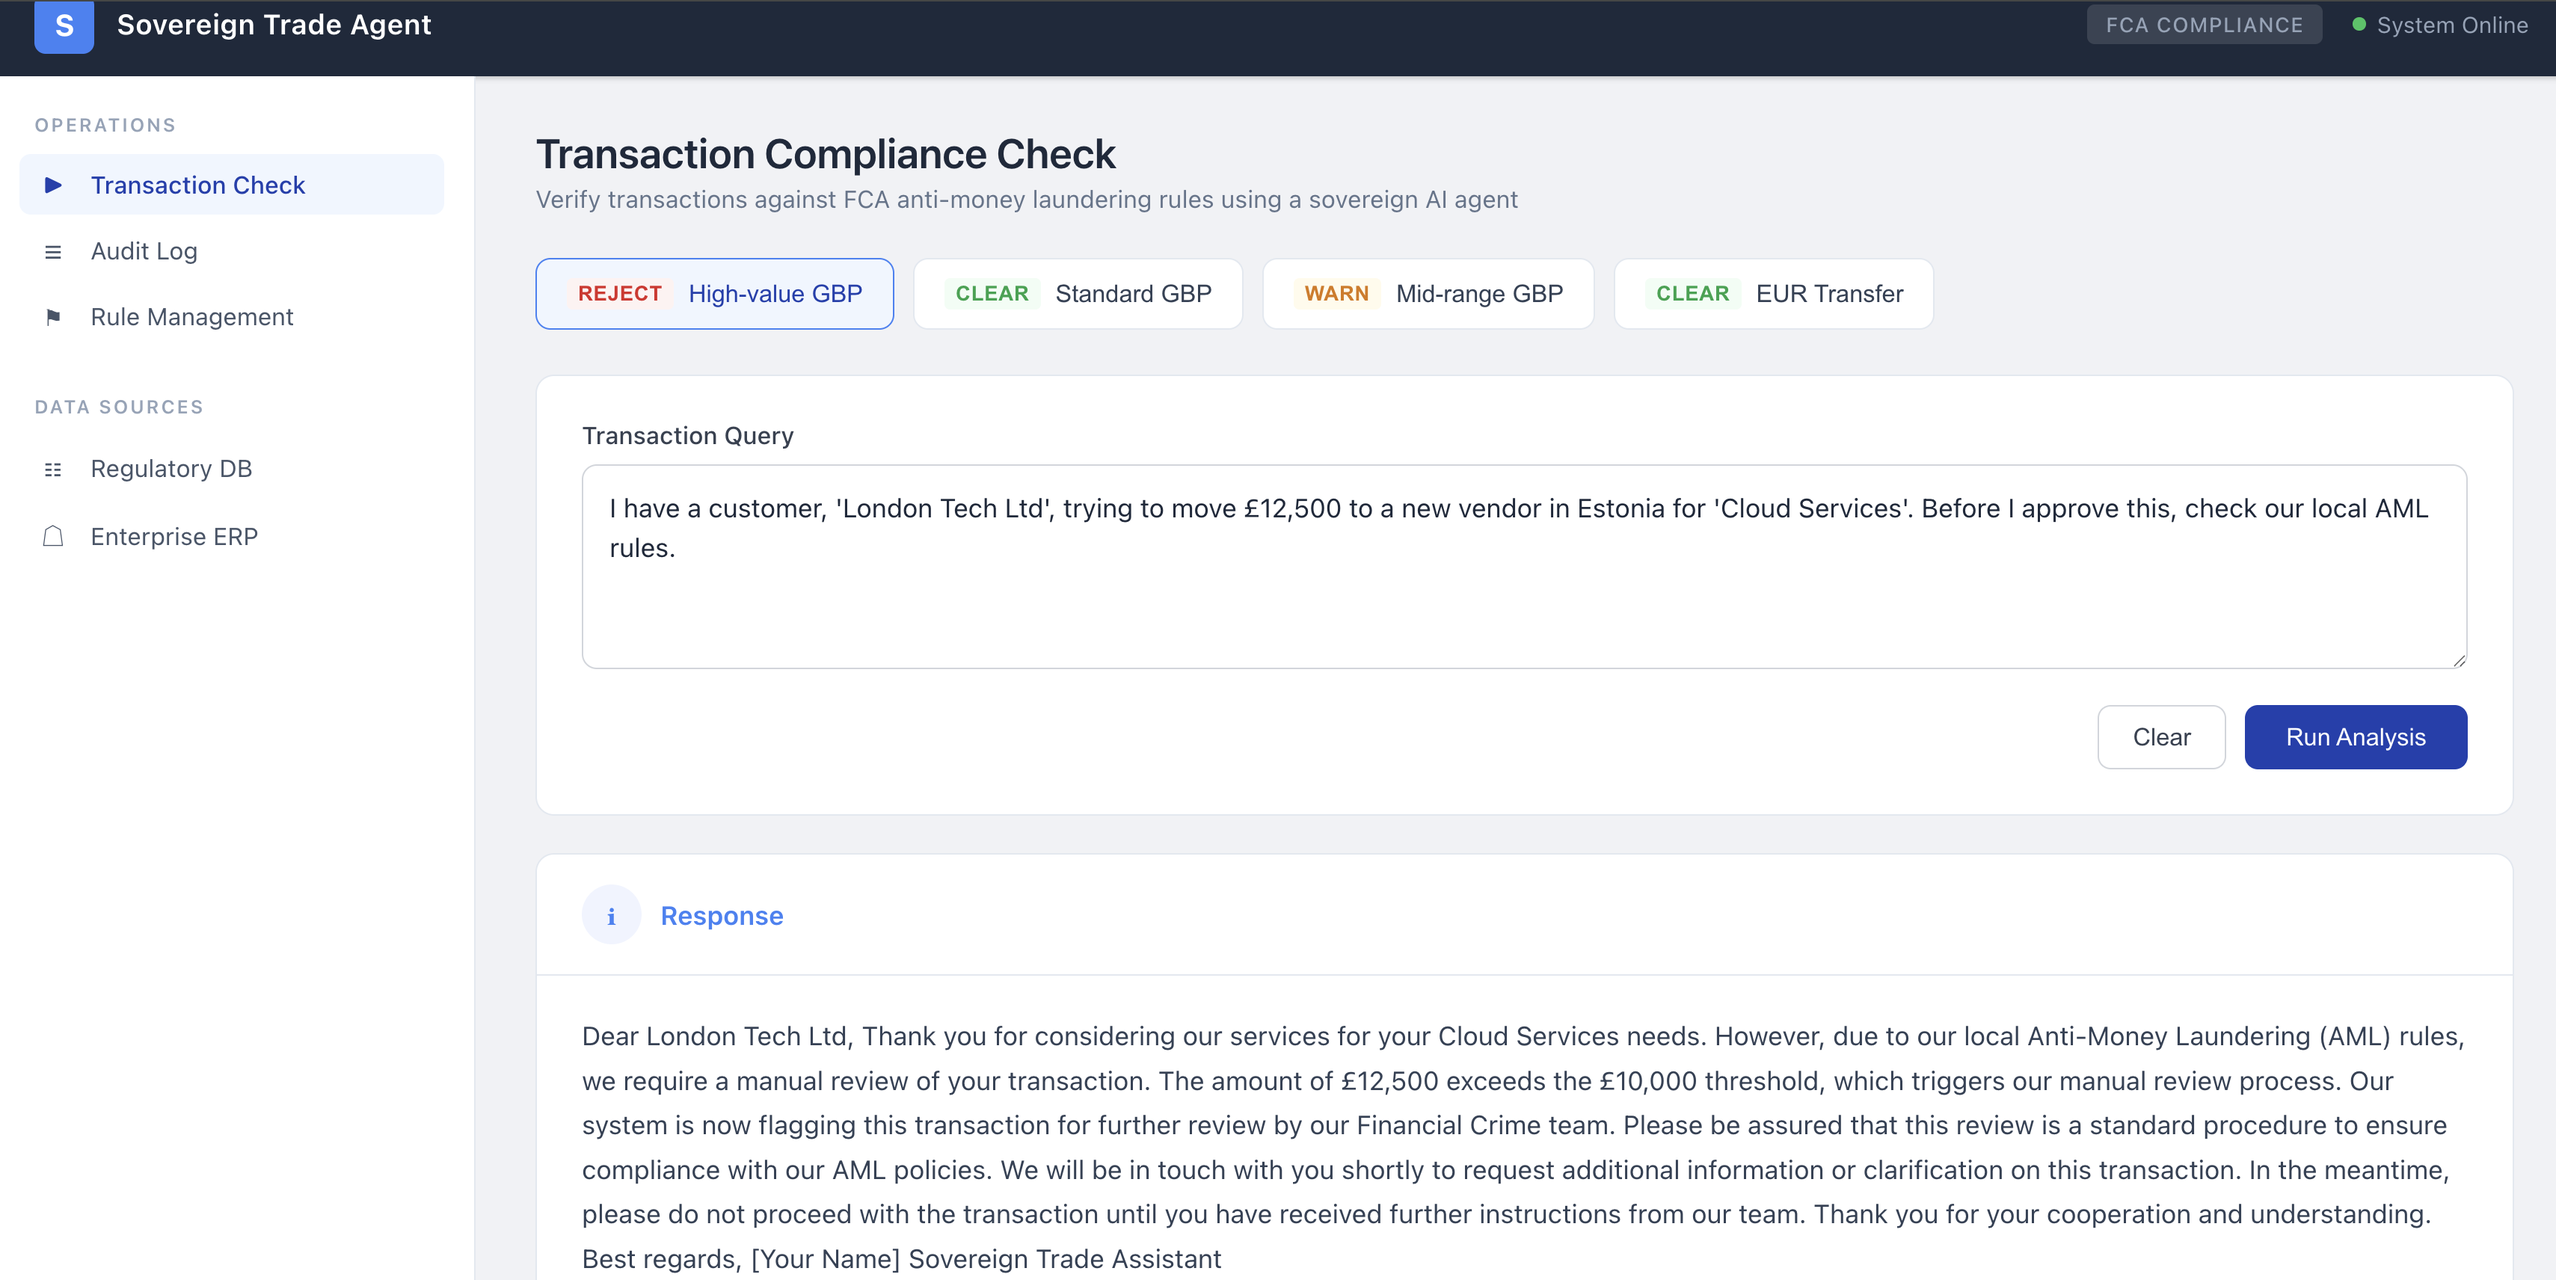
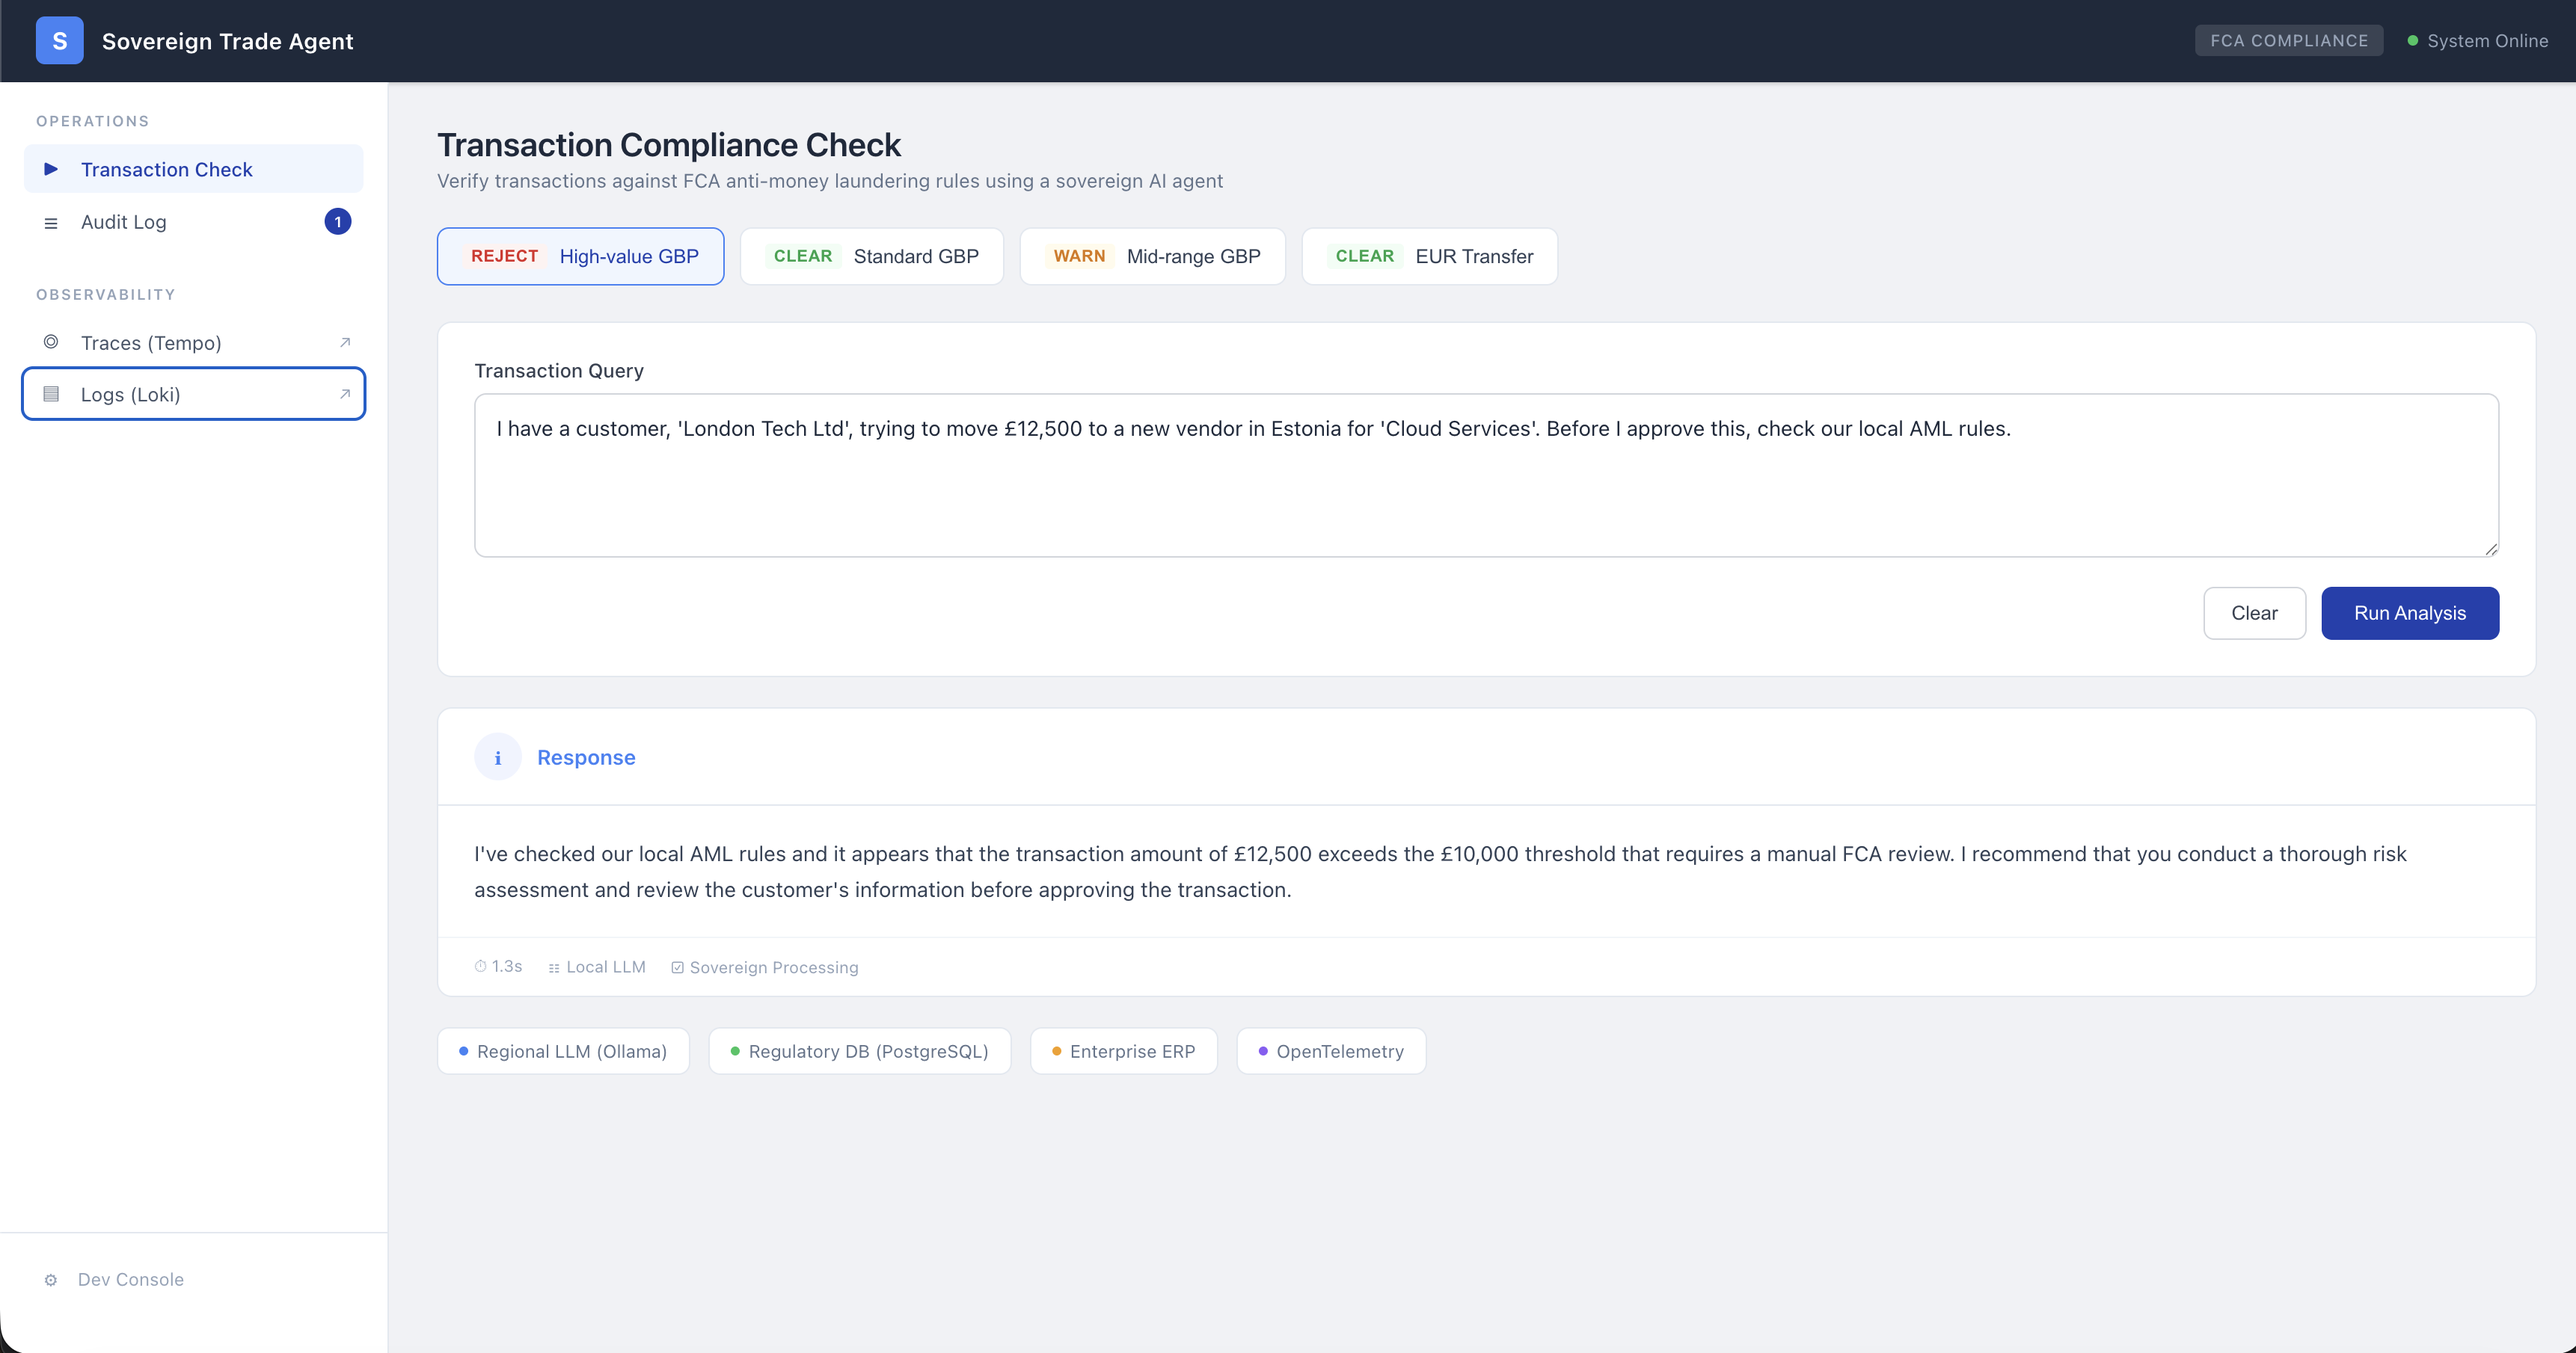
Update README with latest features, screenshots, and observability docs
- Add Tempo and Loki screenshots with Grafana query examples
- Document @Agent annotation and @ToolBox usage
- Update Web UI section to reflect audit log, observability links
- Simplify Grafana instructions with fixed port 3001
- Add quarkus.otel.logs.enabled and grafana-port to config section
- Add link to Quarkus LangChain4j Agentic docs
- Remove outdated Dev UI and manual Grafana instructions

diff --git a/README.md b/README.md
@@ -1,29 +1,29 @@
 # Sovereign Trade Agent
 
-An AI-powered trade compliance assistant for the London market that uses local LLMs to verify transactions against FCA anti-money laundering (AML) rules.
+An AI-powered trade compliance assistant for the London market that uses local LLMs to verify transactions against FCA anti-money laundering (AML) rules — with full data sovereignty guaranteed by running everything on-premise.
+
+Built with [Quarkus LangChain4j](https://docs.quarkiverse.io/quarkus-langchain4j/dev/) using the `@Agent` annotation and `@ToolBox` for declarative agentic AI.
 
 ## Running the application in dev mode
 
-Quarkus Dev Services will automatically start Ollama and OpenTelemetry containers:
+Quarkus Dev Services will automatically start Ollama, PostgreSQL, and the Grafana LGTM observability stack:
 
 ```shell script
 ./mvnw quarkus:dev
 ```
 
-
 ## Web UI
 
-Access the React-based web interface at <http://localhost:8080>
+Access the enterprise-style compliance dashboard at <http://localhost:8080>
 
 ![Web UI](assets/web_ui.png)
 
-The UI provides an enterprise-style compliance dashboard with:
-- Pre-built scenario buttons with color-coded tags (REJECT/WARN/CLEAR) for quick demo cycling
-- Color-coded compliance results — red for REJECTED, amber for WARNING, green for CLEARED
-- Typing animation with blinking cursor for AI agent responses
-- Response metadata showing elapsed time and processing source
-- Sidebar navigation with Operations and Data Sources sections
-- Top navigation bar with system status indicator
+The UI provides:
+- **Scenario buttons** with color-coded tags (REJECT/WARN/CLEAR) for quick demo cycling
+- **Color-coded compliance results** — red for REJECTED, amber for WARNING, green for CLEARED
+- **Typing animation** with blinking cursor for AI agent responses
+- **Audit log** — session transaction history as cards with verdict, query, response, and duration
+- **Observability links** — direct links to Grafana Tempo (traces) and Loki (logs)
 
 > **_NOTE:_** Quarkus Dev UI is available at <http://localhost:8080/q/dev/>
 
@@ -33,9 +33,8 @@ The UI provides an enterprise-style compliance dashboard with:
 
 ### Test the AML Check Tool
 
-Send a transaction query that exceeds the £10,000 threshold:
+Use the pre-built scenario buttons in the Web UI, or send a transaction query via curl:
 
-**Using curl:**
 ```bash
 curl -X POST http://localhost:8080/trade/analyze \
   -H "Content-Type: text/plain" \
@@ -47,53 +46,6 @@ curl -X POST http://localhost:8080/trade/analyze \
 REJECTED: Manual FCA review required for amounts over £10k.
 ```
 
-**Using Dev UI:**
-1. Navigate to <http://localhost:8080/q/dev/>
-2. Find the REST endpoint `/trade/analyze`
-3. Paste the query above
-4. Submit
-
-### Verify Telemetry in Grafana
-
-After running the test above, verify that telemetry data is being collected:
-
-1. **Access Grafana Dashboard:**
-   - Open Quarkus Dev UI: <http://localhost:8080/q/dev/>
-   - Look for "Observability" section
-   - Click on the Grafana link (usually <http://localhost:3000>)
-
-2. **View Traces in Tempo:**
-   - In Grafana, go to **Explore** (compass icon)
-   - Select **Tempo** as the data source
-   - Click **Search** tab
-   - Filter by:
-     - Service Name: `sovereign-trade-agent`
-     - Span Name: `checkAMLStatus` or `getCustomerInfo`
-   - Click **Run Query**
-
-3. **What You Should See:**
-   - Trace showing the full request flow
-   - Span for `checkAMLStatus` with attributes:
-     - `transaction.amount`: 12500.0
-     - `transaction.currency`: GBP
-   - Child spans for:
-     - PostgreSQL database queries
-     - Hibernate ORM operations
-   - Total execution time for each operation
-
-4. **View Metrics in Mimir:**
-   - In Grafana, go to **Explore**
-   - Select **Mimir** as the data source
-   - Query: `http_server_requests_seconds_count{uri="/trade/analyze"}`
-   - See request counts and response times
-
-5. **View Logs in Loki:**
-   - In Grafana, go to **Explore**
-   - Select **Loki** as the data source
-   - Query: `{job="sovereign-trade-agent"}`
-   - See application logs with trace correlation
-
-
 ### Test Cases
 
 | Amount | Currency | Expected Result |
@@ -101,11 +53,27 @@ After running the test above, verify that telemetry data is being collected:
 | £12,500 | GBP | REJECTED (>£10k) |
 | £7,500 | GBP | WARNING (>£5k) |
 | £3,200 | GBP | CLEARED (≤£5k) |
-| €15,000 | EUR | CLEARED (not GBP) |
+| €9,000 | EUR | CLEARED (EUR within limits) |
+
+### Verify Telemetry in Grafana
+
+Grafana is available at <http://localhost:3001> (fixed port via Dev Services).
+
+**Traces (Tempo):**
+
+Click **Traces (Tempo)** in the Web UI sidebar, or open Grafana and select Tempo as the data source. Filter by `service.name = sovereign-trade-agent`.
+
+![Traces in Tempo](assets/tempo.png)
+
+**Logs (Loki):**
+
+Click **Logs (Loki)** in the Web UI sidebar, or open Grafana and select Loki as the data source. Query: `{service_name="sovereign-trade-agent"}`.
+
+![Logs in Loki](assets/loki.png)
 
 ## How It Works
 
-1. **AI Agent** extracts transaction details from natural language
+1. **AI Agent** (`@Agent` + `@ToolBox`) extracts transaction details from natural language
 2. **Tool Invocation** calls multiple tools:
    - `checkAMLStatus(amount, currency)` - Queries local regulatory database
    - `getCustomerInfo(customerId)` - Retrieves data from Enterprise ERP
@@ -147,31 +115,16 @@ User Query ───────────────────────
                                             ▼
                                     ┌───────────────┐
                                     │ OpenTelemetry │
-                                    │(Observability)│
+                                    │  (LGTM Stack) │
                                     └───────────────┘
 ```
 
 **Key Components:**
 
-1. **Regional LLM (KServe/Ollama)**
-   - Runs locally or on KServe for data sovereignty
-   - Processes natural language without external API calls
-   - Supports tool calling for function invocation
-
-2. **Local Regulatory Database (PostgreSQL)**
-   - FCA AML rules stored locally
-   - Multi-currency compliance thresholds
-   - Managed by Quarkus Dev Services
-
-3. **Enterprise ERP Integration (REST Client)**
-   - Customer account information
-   - Risk assessment data
-   - Credit limits and transaction history
-
-4. **OpenTelemetry**
-   - End-to-end observability
-   - Tool invocation tracking
-   - Performance monitoring
+1. **Regional LLM (KServe/Ollama)** — runs locally for data sovereignty, processes natural language without external API calls
+2. **Local Regulatory Database (PostgreSQL)** — FCA AML rules with multi-currency compliance thresholds, managed by Quarkus Dev Services
+3. **Enterprise ERP Integration (REST Client)** — customer account information, risk assessment data, credit limits
+4. **OpenTelemetry (LGTM Stack)** — end-to-end observability with Grafana, Tempo (traces), Loki (logs), and Mimir (metrics)
 
 ## Configuration
 
@@ -183,10 +136,17 @@ quarkus.langchain4j.ollama.chat-model.model-id=llama3.2
 
 # Ollama endpoint
 quarkus.langchain4j.ollama.base-url=http://localhost:11434
+
+# Grafana fixed port
+quarkus.observability.lgtm.grafana-port=3001
+
+# Enable log export to Loki
+quarkus.otel.logs.enabled=true
 ```
 
 ## Learn More
 
 - [Quarkus](https://quarkus.io/)
 - [Quarkus LangChain4j](https://docs.quarkiverse.io/quarkus-langchain4j/dev/)
+- [Quarkus LangChain4j Agentic](https://docs.quarkiverse.io/quarkus-langchain4j/dev/agentic.html)
 - [Ollama](https://ollama.ai/)
